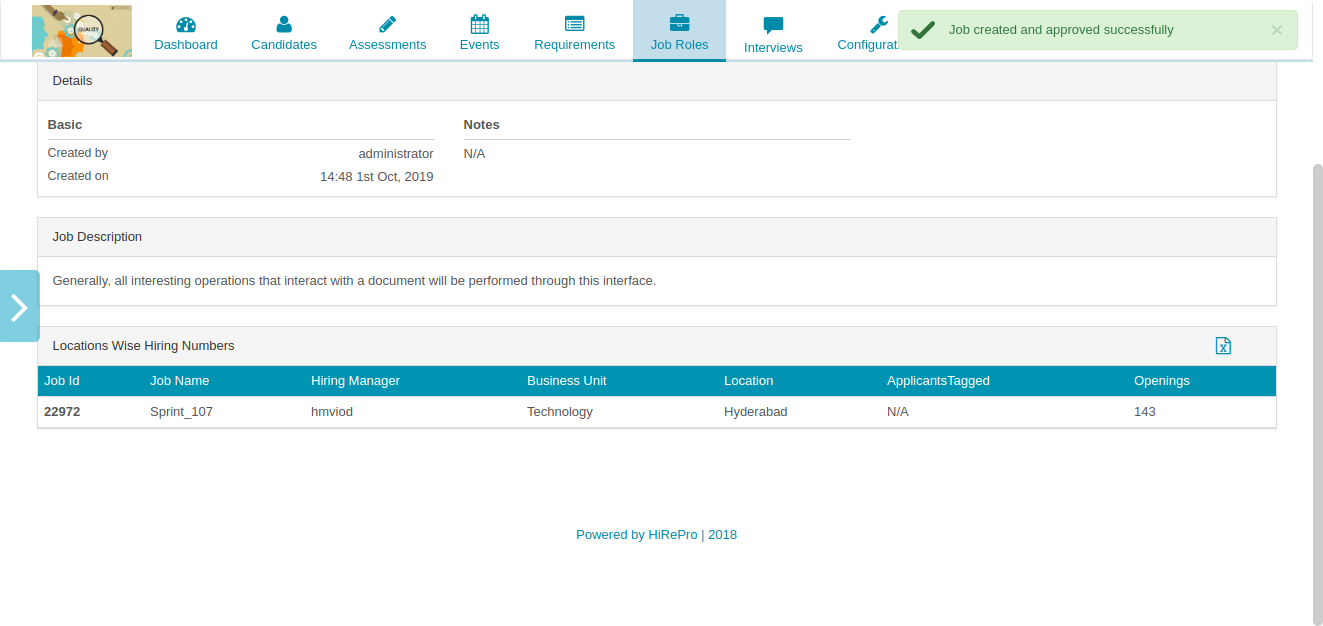
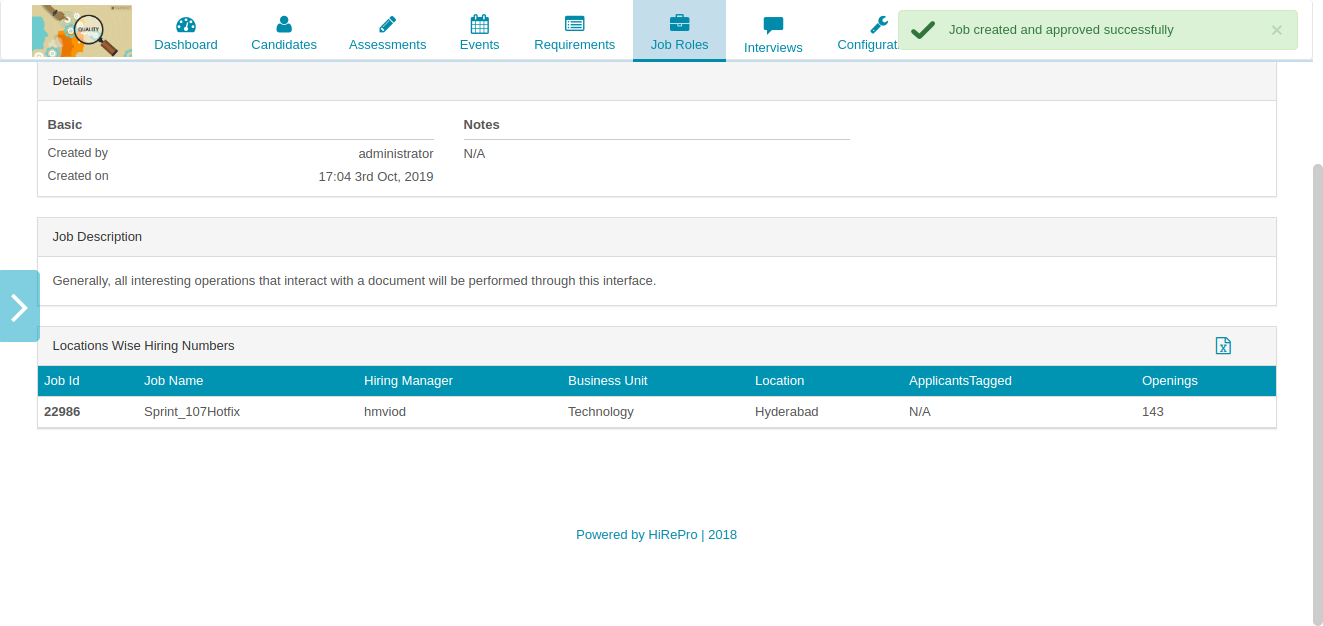
Sprint_107.1

diff --git a/scripts/crpo/create_event.py b/scripts/crpo/create_event.py
@@ -59,6 +59,7 @@ class CreateEvent(create_test.CreateTest):
         self.event_test_sprint_version = []
         self.loop_v = []
         self.grid_event_name = []
+        self.validation_check = ''
 
         self.ui_create_event = []
         self.ui_event_task_config = []
@@ -261,8 +262,12 @@ class CreateEvent(create_test.CreateTest):
             create = self.driver.find_element_by_xpath(page_elements.event['create_event_button'])
             create.send_keys(Keys.DOWN)
             create.click()
-            print('Event created successfully')
-            self.ui_create_event = 'Pass'
+            time.sleep(3)
+
+            self.event_verification()
+            if self.validation_check == 'True':
+                print('Event created successfully')
+                self.ui_create_event = 'Pass'
 
         except exceptions.ElementNotInteractableException as error:
             print(error)
@@ -275,15 +280,15 @@ class CreateEvent(create_test.CreateTest):
             test_name = self.driver.find_element_by_xpath(
                 page_elements.test['grid_test_name'].format(self.event_name_sprint_version))
             self.grid_event_name = test_name.text
-            if self.grid_event_name == self.event_name_sprint_version:
-                print('------------------ Event name is ( {} ) '
-                      'validated ------------------'.format(self.event_name_sprint_version))
+            if self.grid_event_name.strip() == self.event_name_sprint_version:
+                self.validation_check = 'True'
+                print('Event name is ( {} ) and it is validated'.format(self.event_name_sprint_version))
         except exceptions.ElementNotInteractableException as e:
             print(e)
 
     def event_task_configure(self):
         self.event_verification()
-        if self.grid_event_name == self.event_name_sprint_version:
+        if self.validation_check == 'True':
 
             try:
                 config_tab = self.driver.find_element_by_xpath(page_elements.event['event_config_tab'])
@@ -357,7 +362,7 @@ class CreateEvent(create_test.CreateTest):
 
     def event_test_configure(self):
         self.event_verification()
-        if self.grid_event_name == self.event_name_sprint_version:
+        if self.validation_check == 'True':
 
             try:
                 self.driver.refresh()
@@ -400,7 +405,7 @@ class CreateEvent(create_test.CreateTest):
 
     def event_owner_configure(self):
         self.event_verification()
-        if self.grid_event_name == self.event_name_sprint_version:
+        if self.validation_check == 'True':
 
             try:
                 self.driver.refresh()
@@ -445,7 +450,7 @@ class CreateEvent(create_test.CreateTest):
 
     def upload_candidates_to_event(self, email_id):
         self.event_verification()
-        if self.grid_event_name == self.event_name_sprint_version:
+        if self.validation_check == 'True':
 
             try:
                 self.driver.refresh()
@@ -522,7 +527,7 @@ class CreateEvent(create_test.CreateTest):
         time.sleep(1.2)
 
         self.event_verification()
-        if self.grid_event_name == self.event_name_sprint_version:
+        if self.validation_check == 'True':
             try:
                 self.driver.refresh()
                 time.sleep(10)
@@ -571,15 +576,15 @@ class CreateEvent(create_test.CreateTest):
     def event_change_applicant_status(self):
         try:
             self.driver.refresh()
-            self.driver.implicitly_wait(5)
+            time.sleep(5)
             # --------------------------- Change Applicant Status -------------------
             self.driver.find_element_by_name(page_elements.event['applicant_select_checkbox']).click()
             time.sleep(2.4)
             change_applicant_status = \
                 self.driver.find_element_by_xpath(page_elements.event['Change_applicant_status'])
             change_applicant_status.click()
-            time.sleep(1.5)
             stage = self.driver.find_element_by_xpath(page_elements.event['change_stage'])
+            time.sleep(1.5)
             stage.send_keys(self.xl_change_applicant_stage)
 
             status = self.driver.find_element_by_xpath(page_elements.event['change_status'])

diff --git a/testsuite/CRPO_Flow.py b/testsuite/CRPO_Flow.py
@@ -50,11 +50,11 @@ class CrpoFlow(crpo_outfile.CrpoOutputFile):
 
     def event_creation(self):
 
-        # self.create_event()
+        self.create_event()
         time.sleep(5)
-        # self.event_task_configure()
-        # self.event_test_configure()
-        # self.event_owner_configure()
+        self.event_task_configure()
+        self.event_test_configure()
+        self.event_owner_configure()
         self.upload_candidates_to_event(self.New_email_id)
         self.view_upload_candidates()
         self.event_change_applicant_status()
@@ -72,19 +72,19 @@ Object.all_excels()
 if Object.status_of_login == 'administrator':
 
     # ---------- Job creation -----------------
-    # Object.job_role_creation()
-    # Object.job_output_report()
-    # Object.driver.switch_to.window(Object.driver.window_handles[1])
-    # Object.driver.close()
-    # Object.driver.switch_to.window(Object.driver.window_handles[0])
+    Object.job_role_creation()
+    Object.job_output_report()
+    Object.driver.switch_to.window(Object.driver.window_handles[1])
+    Object.driver.close()
+    Object.driver.switch_to.window(Object.driver.window_handles[0])
 
     # ---------- Req creation -----------------
-    # Object.requirement_creation()
-    # Object.requirement_output_report()
+    Object.requirement_creation()
+    Object.requirement_output_report()
 
     # ---------- Test creation -----------------
-    # Object.test_creation()
-    # Object.test_output_report()
+    Object.test_creation()
+    Object.test_output_report()
 
     # ---------- Event creation -----------------
     Object.event_creation()

diff --git a/scripts/crpo/create_job_role.py b/scripts/crpo/create_job_role.py
@@ -180,7 +180,7 @@ class CreateJobRole(crpo_login.CrpoLogin):
             self.driver.find_element_by_xpath(page_elements.job['job_tab']).click()
             time.sleep(10)
             self.driver.find_element_by_xpath(page_elements.job['create_job_role']).click()
-            time.sleep(10)
+            time.sleep(5)
             self.driver.find_element_by_xpath(page_elements.job['Job_name'])\
                 .send_keys(self.job_name_sprint_version)
             self.driver.find_element_by_xpath(page_elements.job['upload_job_file']).send_keys(self.file)
@@ -380,7 +380,7 @@ class CreateJobRole(crpo_login.CrpoLogin):
                 try:
                     time.sleep(4)
                     sp_save = self.driver.find_element_by_xpath(page_elements.job['getbyid_menu_selectionProcess_save'])
-                    self.driver.implicitly_wait(5)
+                    sp_save.send_keys(Keys.ARROW_DOWN)
                     sp_save.click()
                     self.selection_process_created = 'Pass'
                     print('----------------------Selection Process configured successfully_01-------------------------')
@@ -396,6 +396,7 @@ class CreateJobRole(crpo_login.CrpoLogin):
         else:
             try:
                 # ------------------------------------ Selection Process -----------------------------------------------
+                self.driver.refresh()
                 self.driver.implicitly_wait(5)
                 self.driver.find_element_by_xpath(page_elements.job['Floating_actions']).click()
                 time.sleep(5)

diff --git a/hpro automation/page_elements.py b/hpro automation/page_elements.py
@@ -68,7 +68,7 @@ job = {
 
     'getbyid_menu_selectionProcess_text_field': '//*[@type="text"][@placeholder="Selection Process"]',
 
-    'getbyid_menu_selectionProcess_save': '//*[@type="button"][@ng-click="vm.tagSelectionProcess();"]',
+    'getbyid_menu_selectionProcess_save': '//*[@id="mainBodyElement"]/div[6]/div/div/div[3]/button[2]',
 
     'getbyid_menu_feedback_form': '//*[@title="Configure Feedback Form"]',
 
@@ -137,8 +137,8 @@ job = {
                     '/tr[5]/td[5]/div/button',
     'test_automation_button': '//*[@id="mainBodyElement"]/div[3]/div/div[1]/div[4]/div/section/div[2]/table/tbody[3]'
                               '/tr[4]/td[3]/div/button',
-    'ready_schedule_button': '//*[@id="mainBodyElement"]/div[3]/div/div[1]/div[4]/div/section/div[2]/table/'
-                             'tbody[4]/tr[10]/td[7]/div/button',
+    'ready_schedule_button': '//*[@id="mainBodyElement"]/div[3]/div/div[1]/div[4]/div/section/'
+                             'div[2]/table/tbody[4]/tr[10]/td[8]/div/button',
     'Hopping_save_button': '//*[@id="mainBodyElement"]/div[3]/div/div[1]/div[4]/div/section/div[1]/button',
 
     'ec_configure': '//*[@id="mainBodyElement"]/div[3]/div/div[1]/div[4]/div/div[3]/div/div[1]/div/a',

diff --git a/scripts/crpo/Output/crpo_outfile.py b/scripts/crpo/Output/crpo_outfile.py
@@ -38,7 +38,7 @@ class CrpoOutputFile(styles.FontColor, create_event.CreateEvent):
         excelheaders = ['Job UseCases', 'Status', 'Event UseCases', 'Status', 'Task UseCases',
                         'Status', 'Requirement Usecases', 'Status', 'Test', 'Status']
         for headers in excelheaders:
-            if headers in ['Job UseCases', 'Event UseCases', 'TaSK UseCases', 'Requirement Usecases', 'Test', 'Status']:
+            if headers in ['Job UseCases', 'Event UseCases', 'Task UseCases', 'Requirement Usecases', 'Test', 'Status']:
                 self.ws.write(1, index, headers, self.style0)
             else:
                 self.ws.write(1, index, headers, self.style1)

diff --git a/scripts/crpo/cancel_interview.py b/scripts/crpo/cancel_interview.py
@@ -29,6 +29,7 @@ class CancelAndRequest(schedule_re_schedule.ScheduleReSchedule):
             self.name_element_webdriver_wait(page_elements.event['applicant_select_checkbox'])
             self.name.click()
 
+            self.driver.refresh()
             self.x_path_element_webdriver_wait(page_elements.feedback['more'])
             self.xpath.click()
 
